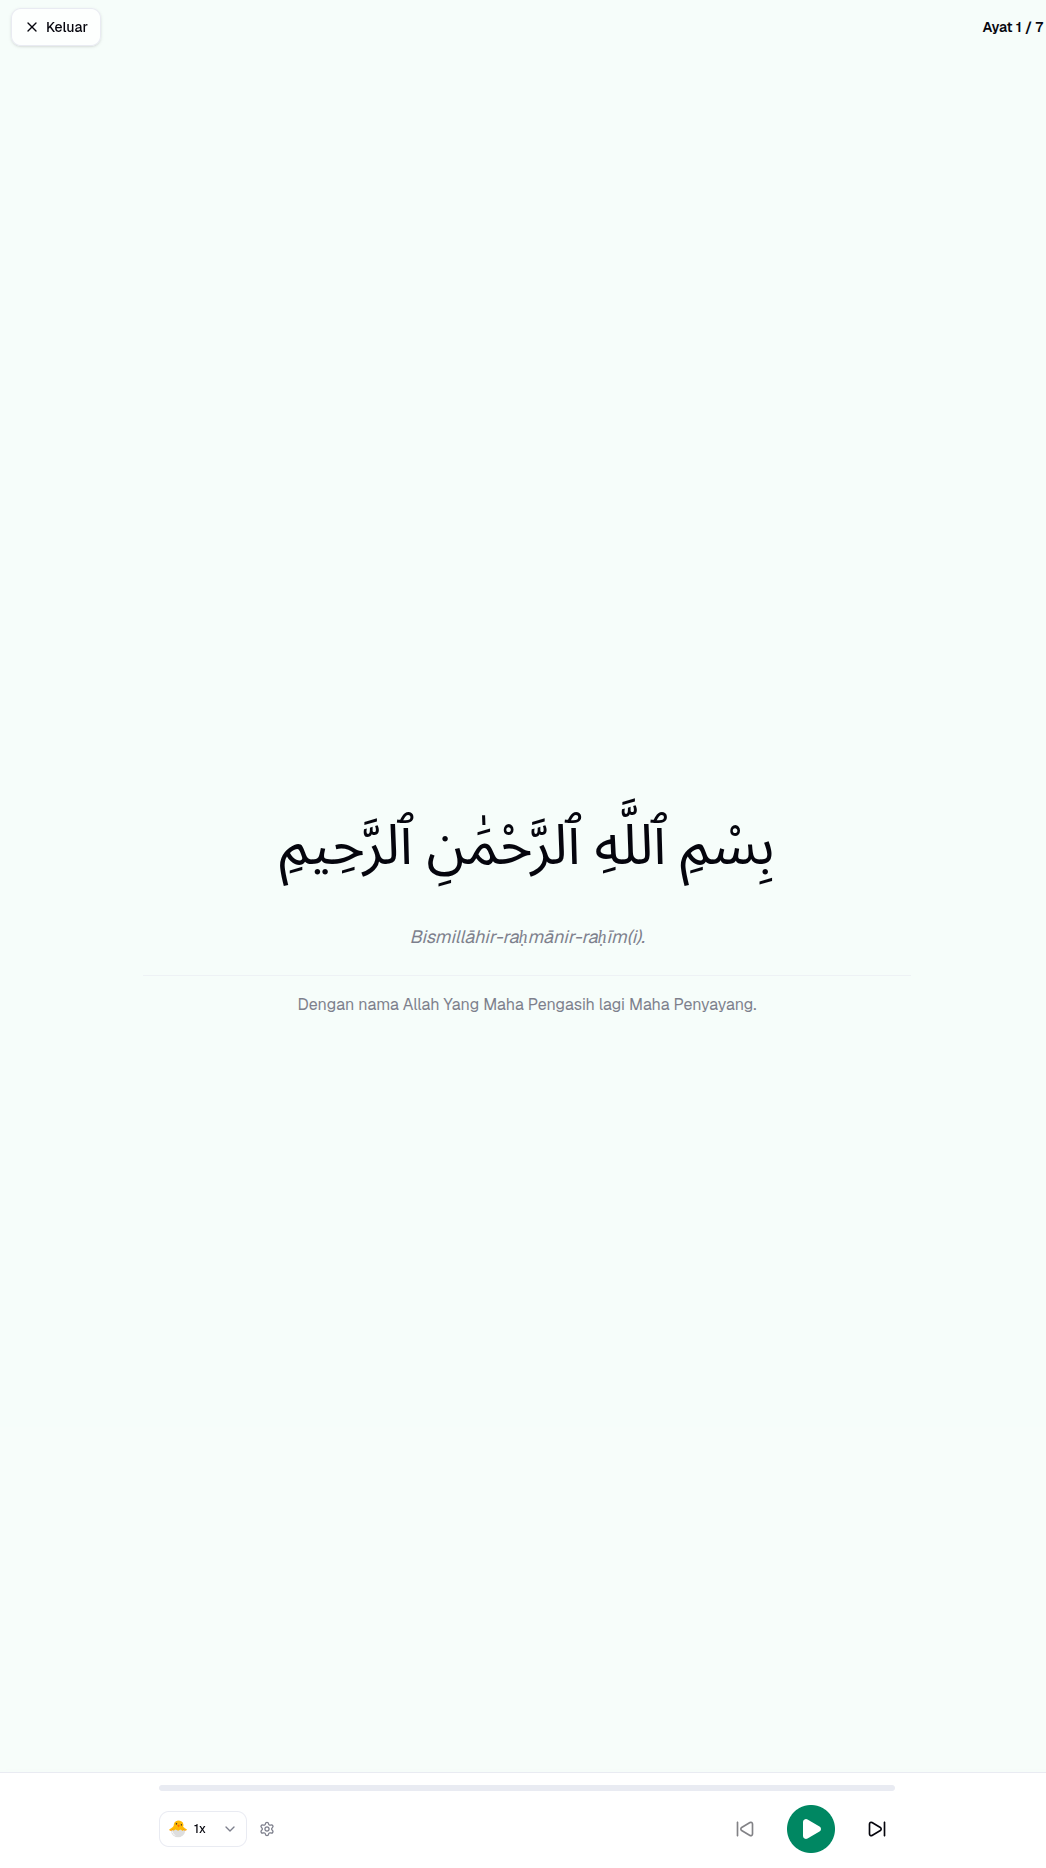
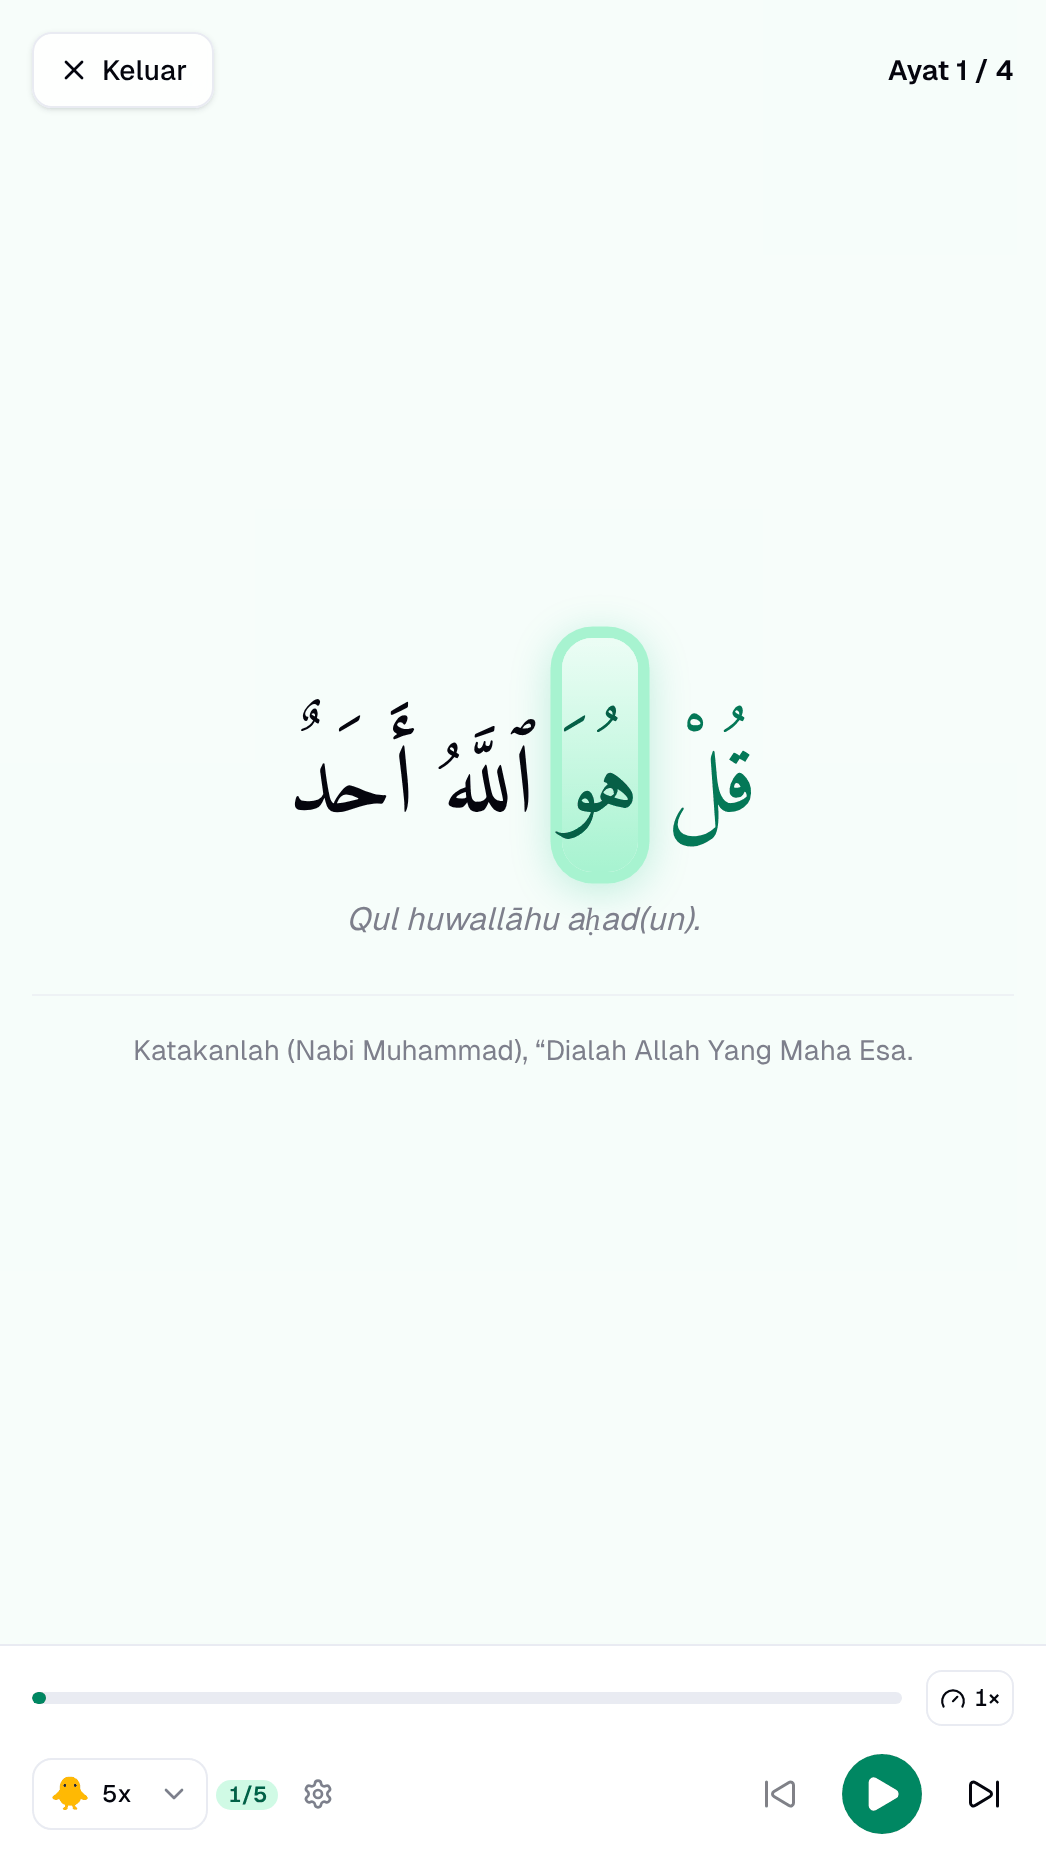
README: screenshot 0.6.0 & daftar fitur diperbarui
- 6 screenshot baru dari build 0.6.0 (Beranda, Detail Surat dengan sorot
  kata & kecepatan putar, Ulang Kata, Mode Fokus, Pengaturan Pengulangan,
  Pengaturan) — label UI baru, font Amiri Quran.
- Fitur: Pengulangan, Mode Murotal, layar kunci, Bahasa, Android, Ulang
  Kata, kecepatan putar; status test 503; badge test; nama cache SW v5;
  struktur folder & skrip (typecheck, android:sync).

Claude-Session: https://claude.ai/code/session_01F94dgoX5yiQBU1dMTLdv5c

diff --git a/README.md b/README.md
@@ -7,7 +7,7 @@
 [![License: HCCL v1.0](https://img.shields.io/badge/License-HCCL%20v1.0-2ea44f)](./LICENSE)
 [![Next.js](https://img.shields.io/badge/Next.js-16-000?style=flat&logo=next.js)](https://nextjs.org/)
 [![TypeScript](https://img.shields.io/badge/TypeScript-5.7-3178C6?style=flat&logo=typescript&logoColor=white)](https://www.typescriptlang.org/)
-[![Tests](https://img.shields.io/badge/tests-222%20passing-brightgreen)](./tests)
+[![Tests](https://img.shields.io/badge/tests-503%20passing-brightgreen)](./tests)
 
 Repository: [github.com/raqolbi/hanquran-app](https://github.com/raqolbi/hanquran-app)
 
@@ -40,8 +40,9 @@ Buka aplikasi → Pilih surat → Putar audio → Aktifkan repeat → Mode fokus
 
 ### Fokus aplikasi
 
-- Hafalan (tahfidz) dengan **repeat** ayat / range / seluruh surat
-- Audio tilawah **per ayat**
+- Hafalan (tahfidz) dengan **pengulangan** ayat / rentang ayat / seluruh surat
+- **Ulang Kata** — ketuk kata (atau seret beberapa kata) untuk diulang terus, dengan jeda menirukan
+- Audio tilawah **per ayat** dari 14 qari, **sorot kata** yang sedang dibaca, kecepatan 0.5×–1.5×
 - **Mode Fokus** — satu ayat, minim distraksi
 - **Lanjutkan Hafalan** dari posisi terakhir
 - Preferensi lokal (bahasa UI, qari, tampilan ayat, aksesibilitas)
@@ -53,12 +54,12 @@ Buka aplikasi → Pilih surat → Putar audio → Aktifkan repeat → Mode fokus
 | **Versi** | `0.6.0` (belum di-tag) |
 | **Scope** | MVP V1 dibekukan di [`docs/20-mvp-freeze.md`](./docs/20-mvp-freeze.md) |
 | **Implementasi** | Core MVP + Growth `0.2.0`–`0.6.0` — lihat [`RELEASE.md`](./RELEASE.md) |
-| **Pengujian** | 476 test (Vitest), semua lulus |
+| **Pengujian** | 503 test (Vitest), semua lulus; `typecheck` & `lint` di CI |
 | **Deploy** | PWA di [Vercel](./docs/25-deployment-vercel.md); Android via Capacitor ([`docs/32`](./docs/32-capacitor-android-platform.md)) |
 
-**Sudah diimplementasikan** (diverifikasi dari codebase): daftar 114 surat (di-SSG, ada di HTML awal), detail surat (SSG + SEO), audio player (kecepatan putar, prefetch ayat berikutnya), repeat engine + badge progress `x/y`, mode fokus, **Mode Murotal**, Media Session (lock screen), favorit surat, lanjutkan hafalan, auto follow playback, layar Tentang HanQuran, i18n UI (`id` / `en`), unduh offline per surat, Service Worker, PWA (manifest, install prompt, offline shell, splash), Vercel Analytics, aplikasi Android (Capacitor), Gerbang Threads, font Amiri Quran untuk rasm Utsmani.
+**Sudah diimplementasikan** (diverifikasi dari codebase): daftar 114 surat (di-SSG, ada di HTML awal), detail surat (SSG + SEO), audio player (kecepatan putar 0.5×–1.5×, prefetch ayat berikutnya), 14 qari, **sorot kata** (12 qari, data quran-align), **Ulang Kata** (ketuk/seret kata + jeda menirukan), repeat engine + badge progress `x/y`, mode fokus (+ pintasan keyboard), **Mode Murotal**, Media Session (lock screen), favorit surat, lanjutkan hafalan, auto follow playback, layar Tentang HanQuran, i18n UI (`id` / `en`), unduh offline per surat, Service Worker, PWA (manifest, install prompt, offline shell, splash), Vercel Analytics, aplikasi Android (Capacitor), Gerbang Threads, font Amiri Quran untuk rasm Utsmani.
 
-**Belum selesai / di luar MVP V1** (dokumentasi resmi): sorot kata untuk Al-Juhaynee & Warsh, persist posisi audio, verifikasi E2E offline, error tracking produksi, seluruh kriteria rilis di [`docs/20-mvp-freeze.md`](./docs/20-mvp-freeze.md) §9.
+**Belum selesai / di luar MVP V1** (dokumentasi resmi): uji perangkat iPhone & APK untuk Ulang Kata / audio offline / kecepatan putar, sorot kata untuk Al-Juhaynee & Warsh, persist posisi audio, verifikasi E2E offline, error tracking produksi, seluruh kriteria rilis di [`docs/20-mvp-freeze.md`](./docs/20-mvp-freeze.md) §9.
 
 ---
 
@@ -85,22 +86,27 @@ Buka aplikasi → Pilih surat → Putar audio → Aktifkan repeat → Mode fokus
 
 ## Screenshot
 
-Pratinjau antarmuka HanQuran — mobile-first, UI Bahasa Indonesia.
+Pratinjau antarmuka HanQuran — mobile-first, UI Bahasa Indonesia (diambil dari build 0.6.0, 2 Nov 2026).
 
 <p align="center">
   <img src="./docs/images/beranda.png" alt="Beranda HanQuran — kartu Lanjutkan Hafalan, pencarian, filter favorit, dan daftar 114 surat" width="400" />
   <br><sub><strong>Beranda</strong> — Lanjutkan Hafalan, pencarian, filter favorit, daftar surat</sub>
 </p>
 
-| Detail surat | Mode Fokus |
+| Detail surat | Ulang Kata |
 | :---: | :---: |
-| <img src="./docs/images/detail-surat.png" alt="Detail surat Al-Faatiha — ayat, terjemahan, transliterasi, audio player" width="360" /> | <img src="./docs/images/mode-fokus.png" alt="Mode Fokus — satu ayat per layar dengan kontrol audio" width="360" /> |
-| <sub><strong>Detail surat</strong> — ayat, terjemahan & transliterasi, unduh offline</sub> | <sub><strong>Mode Fokus</strong> — satu ayat, minim distraksi</sub> |
+| <img src="./docs/images/detail-surat.png" alt="Detail surat Al-Faatiha — kata yang sedang dibaca disorot hijau, terjemahan, transliterasi, pemutar audio dengan kecepatan putar" width="360" /> | <img src="./docs/images/ulang-kata.png" alt="Ulang Kata di Al-Baqarah ayat 2 — kata 2–4 berbingkai kuning diulang terus, chip status dengan tombol Berhenti" width="360" /> |
+| <sub><strong>Detail surat</strong> — sorot kata saat tilawah, terjemahan & transliterasi, kecepatan putar</sub> | <sub><strong>Ulang Kata</strong> — ketuk atau seret kata, diulang terus dengan jeda menirukan</sub> |
 
-| Pengaturan Pengulangan | Pengaturan |
+| Mode Fokus | Pengaturan Pengulangan |
 | :---: | :---: |
-| <img src="./docs/images/pengaturan-repeat.png" alt="Dialog Pengaturan Pengulangan — jumlah dan target pengulangan" width="360" /> | <img src="./docs/images/pengaturan.png" alt="Halaman Pengaturan — bahasa, qari, playback, offline, aksesibilitas" width="360" /> |
-| <sub><strong>Repeat</strong> — jumlah (1×–∞), target ayat / range / surat</sub> | <sub><strong>Pengaturan</strong> — bahasa, qari, playback, ukuran teks, offline</sub> |
+| <img src="./docs/images/mode-fokus.png" alt="Mode Fokus — satu ayat Al-Ikhlas per layar dengan sorot kata dan kontrol audio" width="360" /> | <img src="./docs/images/pengaturan-repeat.png" alt="Dialog Pengaturan Pengulangan — jumlah dan target pengulangan, rentang ayat" width="360" /> |
+| <sub><strong>Mode Fokus</strong> — satu ayat, minim distraksi, sorot kata</sub> | <sub><strong>Pengulangan</strong> — jumlah (1×–tanpa batas), target ayat / rentang / surat</sub> |
+
+<p align="center">
+  <img src="./docs/images/pengaturan.png" alt="Halaman Pengaturan — qari bertanda Sorot kata, Ikuti Ayat yang Diputar, Sorot Kata, Jeda Menirukan, Mode Murotal, ukuran teks" width="360" />
+  <br><sub><strong>Pengaturan</strong> — qari, pemutaran (sorot kata, jeda menirukan, Murotal), ukuran teks, offline, aksesibilitas</sub>
+</p>
 
 ---
 
@@ -110,15 +116,20 @@ Pratinjau antarmuka HanQuran — mobile-first, UI Bahasa Indonesia.
 
 | Fitur | Deskripsi |
 |-------|-----------|
-| **Beranda** | 114 surat, pencarian, filter favorit, kartu Lanjutkan Hafalan |
-| **Detail Surat** | Ayat rasm Utsmani (font Amiri Quran), **sorot kata saat tilawah** (12 dari 14 qari), terjemahan & transliterasi (toggle), audio, repeat, unduh offline |
+| **Beranda** | 114 surat, pencarian (nama, arti, nomor), filter favorit, kartu Lanjutkan Hafalan (posisi terakhir dibaca) |
+| **Detail Surat** | Ayat rasm Utsmani (font Amiri Quran), **sorot kata saat tilawah** (12 dari 14 qari), terjemahan & transliterasi (toggle), favorit, audio per ayat, unduh offline |
+| **Pengulangan** | 1×, 5×, 10×, 25×, 50×, tanpa batas — untuk ayat aktif, rentang ayat, atau seluruh surat; badge progres `x/y` |
+| **Mode Murotal** | Tilawah berkelanjutan ke ayat & surat berikutnya sampai dihentikan |
+| **Layar kunci** | Kontrol putar/jeda & ayat sebelum/berikut di notifikasi / layar kunci (Media Session; Android: notifikasi media) |
 | **Kecepatan Putar** | 0.5× – 1.5× di pemutar audio (nada tidak berubah), tersimpan otomatis |
 | **Ulang Kata** | Ketuk kata di ayat aktif → diulang terus; tekan lama lalu seret → ulang rentang kata; jeda menirukan 0–3 dtk |
 | **Mode Fokus** | Satu ayat per layar, navigasi ayat (juga ← / → dan Spasi di keyboard), audio & repeat, sorot kata, ulang kata |
 | **Pengaturan** | Bahasa UI, qari, Ikuti Ayat yang Diputar, Sorot Kata, Jeda Menirukan, Mode Murotal, Unduh Audio Otomatis, ukuran teks Arab, kontras tinggi, animasi, status & hapus audio tersimpan |
+| **Bahasa** | UI Bahasa Indonesia & English; terjemahan ayat mengikuti bahasa |
 | **Tentang HanQuran** | Informasi aplikasi, filosofi, credits, repository & lisensi |
-| **Offline** | Unduh audio per surat; Service Worker cache dataset & aset |
+| **Offline** | Seluruh teks Al-Qur'an tersedia offline; **Simpan Offline** audio per surat + qari; opsi Unduh Audio Otomatis |
 | **PWA** | Instal ke layar utama, splash screen, halaman fallback offline |
+| **Android** | Aplikasi Capacitor dengan audio latar & notifikasi media (`docs/32`) |
 
 ### Developer
 
@@ -127,6 +138,8 @@ Pratinjau antarmuka HanQuran — mobile-first, UI Bahasa Indonesia.
 | Service layer Quran | `services/quran/` |
 | Audio controller & Media Session | `services/audio-controller.ts`, `services/media-session.ts` |
 | Repeat engine | `services/repeat-engine.ts` |
+| Sorot kata (data waktu per kata) | `services/quran/word-timings.ts`, `hooks/use-active-word-range.ts` |
+| Ulang Kata | `services/word-loop-engine.ts`, `services/quran/word-clip.ts`, `stores/wordLoopStore.ts` |
 | State (Zustand) | `stores/` |
 | Persistensi pengguna (Dexie) | `services/db/` |
 | Custom analytics | `lib/analytics/` — lihat [`docs/analytics.md`](./docs/analytics.md) |
@@ -158,7 +171,7 @@ Spesifikasi lengkap: [`docs/14-routing-spec.md`](./docs/14-routing-spec.md).
 | i18n UI | [next-intl 4](https://next-intl.dev/) — `id`, `en` |
 | PWA | Service Worker (`public/sw.js`), Web App Manifest |
 | Analytics | [@vercel/analytics](https://vercel.com/docs/analytics) |
-| Testing | [Vitest 4](https://vitest.dev/) + Testing Library + jsdom |
+| Testing | [Vitest 4](https://vitest.dev/) + Testing Library (environment `node`, jsdom per file), ESLint 9, `tsc --noEmit` |
 
 Keputusan arsitektur dibekukan: [`docs/20-mvp-freeze.md`](./docs/20-mvp-freeze.md) Bagian 7.
 
@@ -190,7 +203,7 @@ CDN tilawah (everyayah.com)  →  AudioController  →  HTMLAudioElement
 
 ### Offline & PWA
 
-- **Service Worker:** `hanquran-static-v1`, `hanquran-shell-v1`, `hanquran-data-v1`, `hanquran-audio-v1`
+- **Service Worker (`v5`):** `hanquran-static-v2`, `hanquran-shell-v2` (halaman, kunci tanpa query), `hanquran-rsc-v1` (payload navigasi, network-first), `hanquran-data-v3`, `hanquran-audio-v1` (mendukung Range → 206)
 - **Registrasi SW:** production only — `lib/register-service-worker.ts`
 
 > **Penting:** PWA dan Service Worker **tidak aktif** di `npm run dev`. Uji dengan `npm run build && npm start` atau deployment Vercel.
@@ -206,13 +219,13 @@ hanquran-app/
 ├── hooks/               # Custom React hooks
 ├── lib/                 # Utilitas, analytics, routes, PWA helpers
 ├── services/            # Quran loader, audio, repeat, download, db
-├── stores/              # Zustand (audio, user, repeat, offline)
+├── stores/              # Zustand (audio, user, repeat, offline, wordLoop)
 ├── types/               # TypeScript types domain
 ├── i18n/                # Konfigurasi next-intl
 ├── messages/            # String UI (id.json, en.json)
-├── data/                # reciters.json (metadata qari)
+├── data/                # reciters.json (qari), word-timing-reciters.json (qari bersorot kata)
 ├── public/
-│   ├── data/            # Dataset Quran & terjemahan (114 surat)
+│   ├── data/            # Dataset Quran & terjemahan (114 surat), word-timings/ (quran-align)
 │   ├── sw.js            # Service Worker
 │   ├── manifest.json    # PWA manifest
 │   └── branding/        # Logo
@@ -257,6 +270,8 @@ Panduan developer lengkap: [`docs/SETUP.md`](./docs/SETUP.md).
 | `npm run test` | Unit & integration tests |
 | `npm run test:watch` | Tests mode watch |
 | `npm run lint` | ESLint |
+| `npm run typecheck` | Cek tipe TypeScript (`tsc --noEmit`) |
+| `npm run android:sync` | Export static + patch audio native + `cap sync` (`docs/32`) |
 
 ---
 
@@ -291,7 +306,7 @@ Variabel khusus (mis. Sentry) dapat ditambahkan saat Phase 8 release monitoring 
 npm run test
 ```
 
-- **476 test / 95 file** di `tests/` (Vitest + jsdom + fake-indexeddb) — semua lulus per 2 Nov 2026
+- **503 test / 99 file** di `tests/` (Vitest + fake-indexeddb; environment default `node`, file yang butuh DOM memakai `// @vitest-environment jsdom`) — semua lulus per 2 Nov 2026
 - Konfigurasi: `vitest.config.ts`, setup: `tests/setup.ts`
 
 ---
@@ -346,7 +361,7 @@ Catatan rilis: [`RELEASE.md`](./RELEASE.md).
 | [`docs/07-api-integration.md`](./docs/07-api-integration.md) | Sumber data & integrasi |
 | [`docs/26-about-screen-spec.md`](./docs/26-about-screen-spec.md) | Layar Tentang HanQuran |
 | [`docs/27-media-session-api-spec.md`](./docs/27-media-session-api-spec.md) | Media Session API (lock screen) |
-| [`docs/28-playback-settings.md`](./docs/28-playback-settings.md) | Ikuti Ayat yang Diputar |
+| [`docs/28-playback-settings.md`](./docs/28-playback-settings.md) | Pengaturan pemutaran: Ikuti Ayat yang Diputar, Sorot Kata, Jeda Menirukan, kecepatan putar |
 | [`docs/30-offline-behavior-spec.md`](./docs/30-offline-behavior-spec.md) | Perilaku offline (+ addendum APK) |
 | [`docs/32-capacitor-android-platform.md`](./docs/32-capacitor-android-platform.md) | Platform Capacitor Android |
 | [`docs/33-play-store-privacy-and-data-safety.md`](./docs/33-play-store-privacy-and-data-safety.md) | Privasi & Data safety Play |
